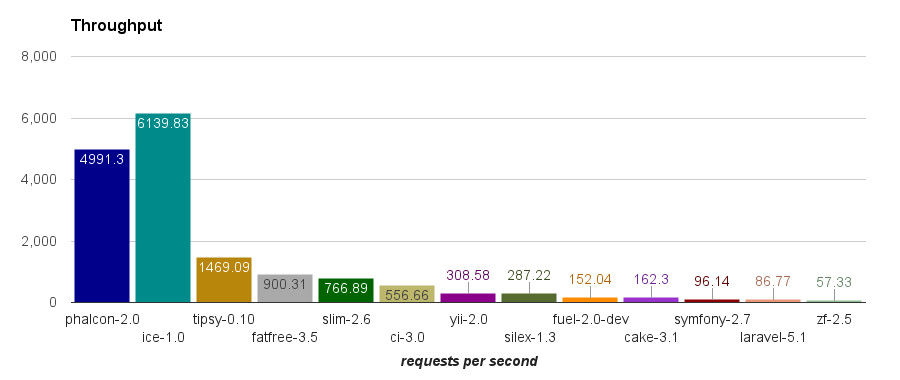
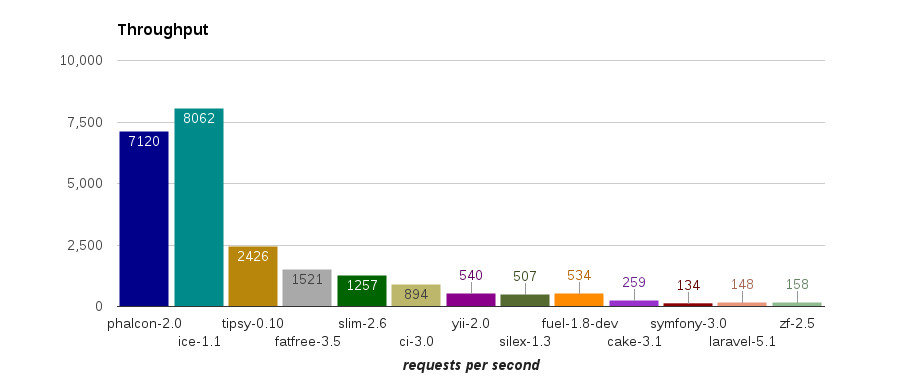
Update benchmark

diff --git a/app/modules/doc/views/en/introduction/benchmark.md b/app/modules/doc/views/en/introduction/benchmark.md
@@ -5,15 +5,15 @@ There is no special settings/optimizations to boost performance of some framewor
 The testing environment is as follows:
 
 #### Hardware
-* CPU: i7-4702MQ up to 3.2 GHz 4 cores 8 threads
-* Main Memory: 12GB 1600 MHz DDR3
-* Hard Drive: SSD 120GB Read 540MB/s Write 480MB/s
+* CPU: i7-5820K up to 3.6GHz 6 cores 12 threads
+* Main Memory: 16GB 2133MHz DDR4
+* Hard Drive: NVMe SSD 256GB Read 2200MB/s Write 900MB/s
 
 #### Software
-* Operating System: openSUSE Tubmleweed 20151128 64-bit
-* Kernel: 4.3.0
-* Web Server: Nginx 1.8.0
-* PHP-FPM: 5.6.15
+* Operating System: openSUSE Tubmleweed 20160329 64-bit
+* Kernel: 4.5.0
+* Web Server: Nginx 1.8.1
+* PHP-FPM: 5.6.19
 
 #### Script
 [PHP Framework Benchmark](https://github.com/kenjis/php-framework-benchmark)
@@ -21,33 +21,33 @@ The testing environment is as follows:
 ### Results
 ##### Requests per second
 
-![RPS](/img/doc/benchmark.jpg?v3)
+![RPS](/img/doc/benchmark.jpg?v=31032016)
 
 ##### Peak memory
 
-![Memory](/img/doc/benchmark2.jpg?v3)
+![Memory](/img/doc/benchmark2.jpg?v=31032016)
 
 ##### Execution time
 
-![Time](/img/doc/benchmark3.jpg?v3)
+![Time](/img/doc/benchmark3.jpg?v=31032016)
 
 ##### Included files
 
-![Files](/img/doc/benchmark4.jpg?v3)
+![Files](/img/doc/benchmark4.jpg?v=31032016)
 
-### Table (29 Nov 2015)
-|framework          |requests per second|relative|peak memory|relative|files|relative|
-|-------------------|------------------:|-------:|----------:|-------:|----:|-------:|
-|phalcon-2.0        |           4,991.30|   87.06|       0.29|    1.04|    5|    1.25|
-|ice-1.0            |           6,139.83|  107.10|       0.28|    1.00|    4|    1.00|
-|tipsy-0.10         |           1,469.09|   25.63|       0.59|    2.11|   18|    4.50|
-|fatfree-3.5        |             900.31|   15.70|       0.95|    3.39|    9|    2.25|
-|slim-2.6           |             766.89|   13.38|       1.06|    3.79|   24|    6.00|
-|ci-3.0             |             556.66|    9.71|       1.18|    4.21|   26|    6.50|
-|yii-2.0            |             308.58|    5.38|       2.50|    8.93|   49|   12.25|
-|silex-1.3          |             287.22|    5.01|       2.06|    7.36|   64|   16.00|
-|fuel-2.0-dev       |             152.04|    2.65|       3.32|   11.86|  128|   32.00|
-|cake-3.1           |             162.30|    2.83|       4.08|   14.57|   84|   21.00|
-|symfony-2.7        |              96.14|    1.68|       7.90|   28.21|  106|   26.50|
-|laravel-5.1        |              86.77|    1.51|       7.59|   27.11|   39|    9.75|
-|zf-2.5             |              57.33|    1.00|       6.39|   22.82|  204|   51.00|
+### Table (31 Mar 2016)
+|framework          |requests per second|relative|peak memory|relative|files|relative| 
+|-------------------|------------------:|-------:|----------:|-------:|----:|-------:| 
+|phalcon-2.0        |              7,120|   53.19|       0.29|    1.05|    5|    1.25| 
+|ice-1.1            |              8,062|   60.22|       0.28|    1.02|    4|    1.00| 
+|tipsy-0.10         |              2,426|   18.12|       0.59|    2.14|   18|    4.50| 
+|fatfree-3.5        |              1,521|   11.36|       0.95|    3.45|    9|    2.25| 
+|slim-2.6           |              1,257|    9.39|       1.06|    3.85|   24|    6.00| 
+|ci-3.0             |                894|    6.68|       1.18|    4.28|   26|    6.50| 
+|yii-2.0            |                540|    4.03|       2.49|    9.03|   49|   12.25| 
+|silex-1.3          |                507|    3.79|       2.06|    7.47|   64|   16.00| 
+|fuel-1.8-dev       |                534|    3.99|       1.98|    7.18|   45|   11.25| 
+|cake-3.1           |                259|    1.94|       4.02|   14.59|   84|   21.00| 
+|symfony-3.0        |                134|    1.00|       7.69|   27.90|  214|   53.50| 
+|laravel-5.1        |                148|    1.11|       7.32|   26.56|   39|    9.75| 
+|zf-2.5             |                158|    1.18|       6.34|   23.00|  204|   51.00|
